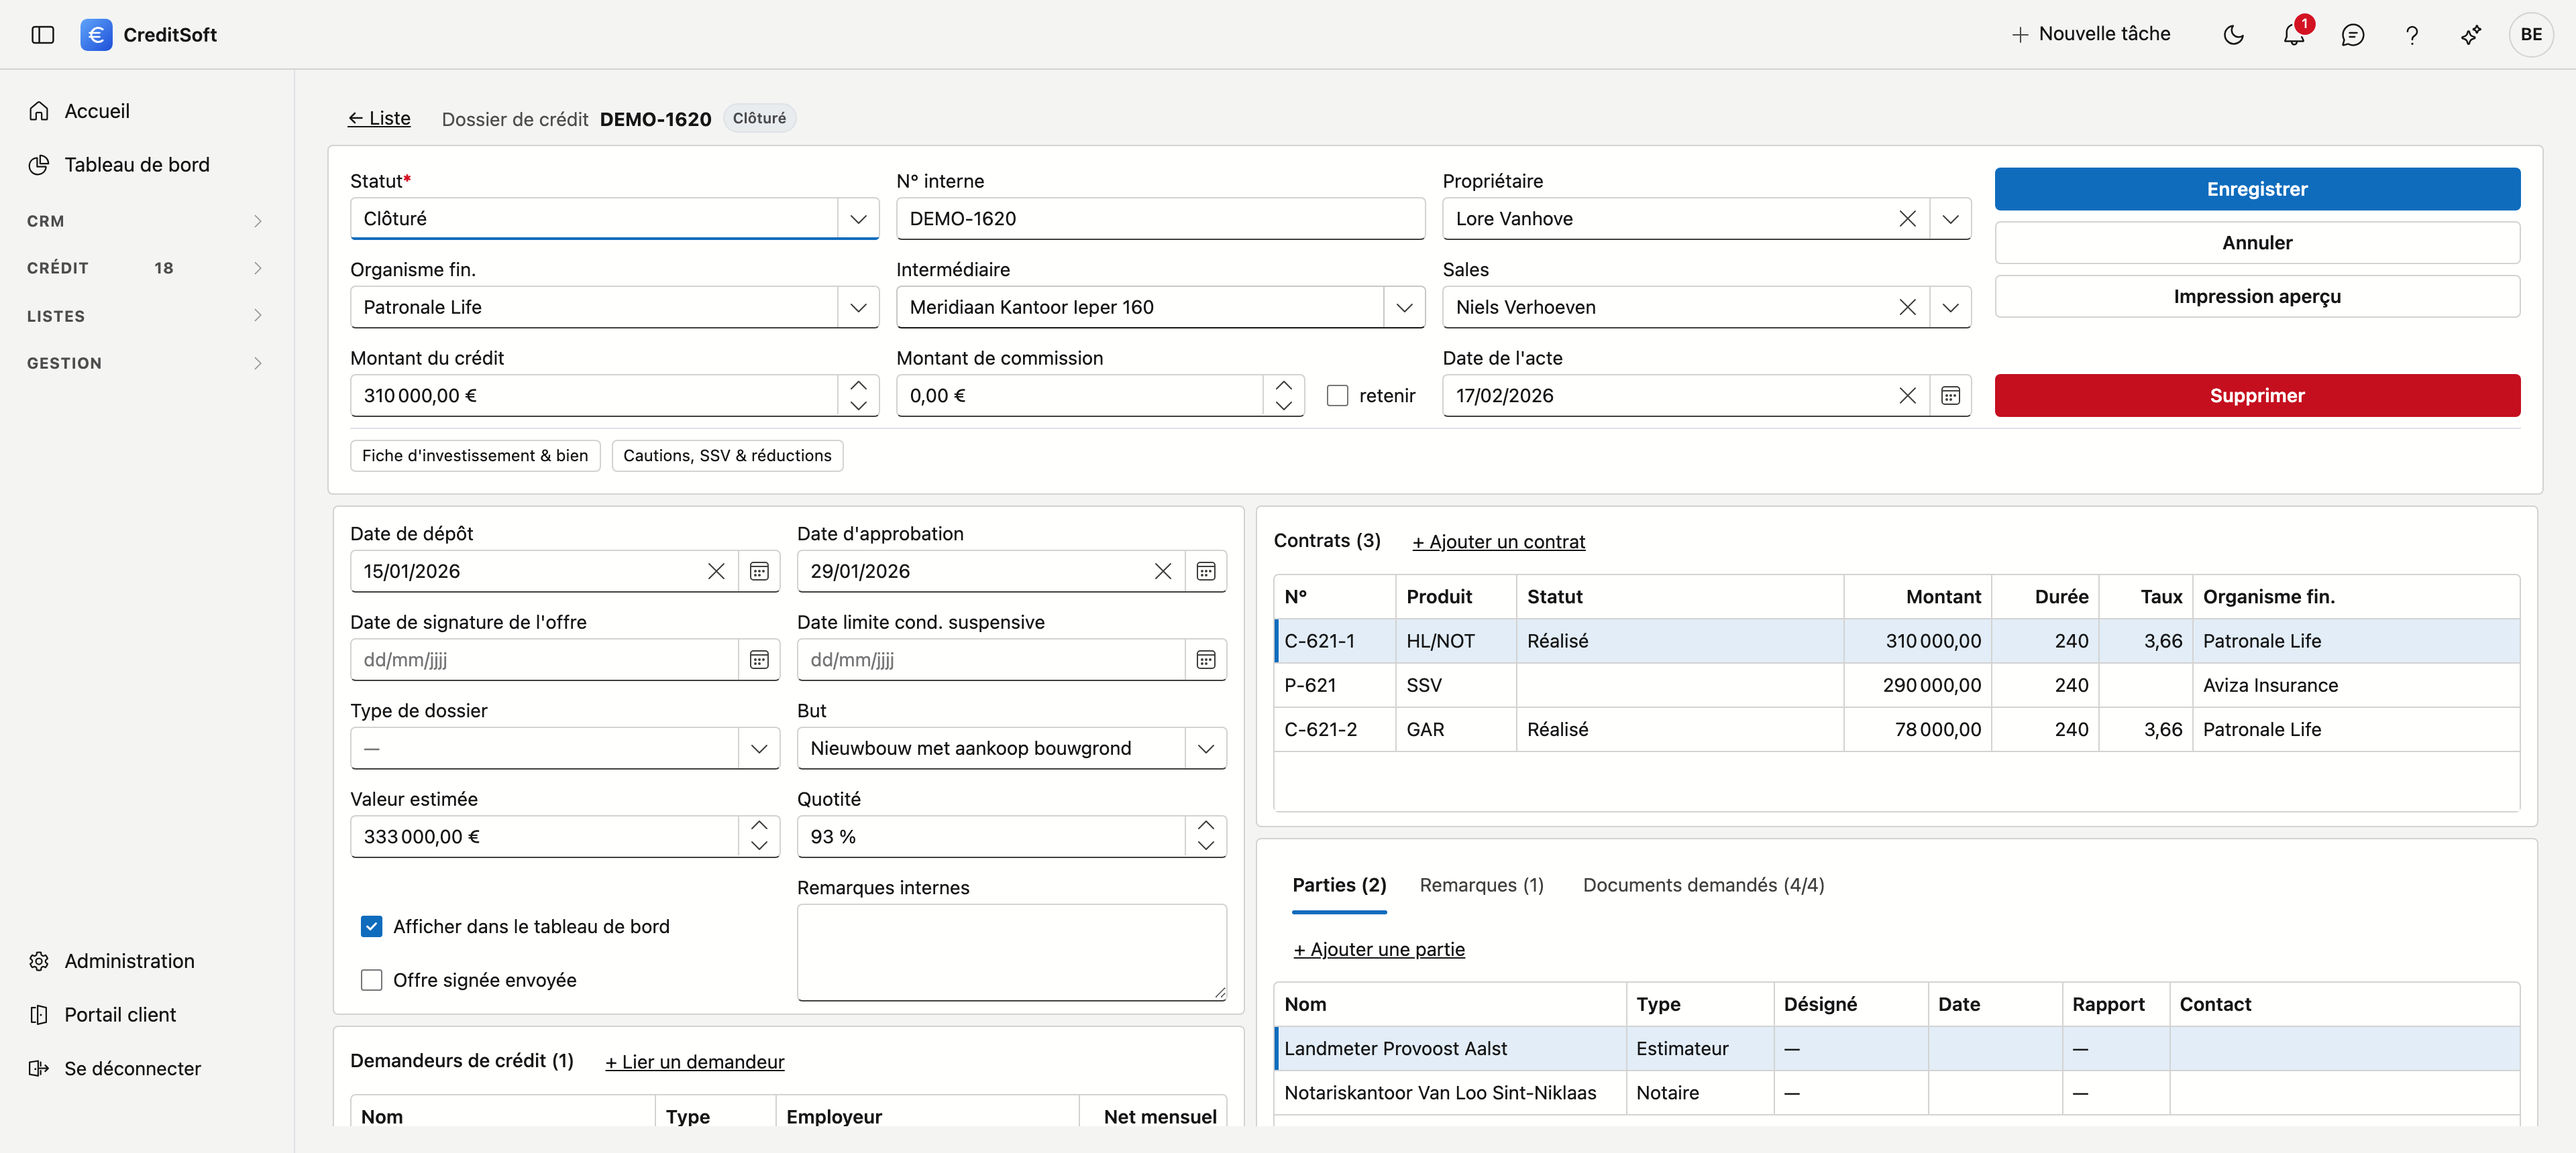
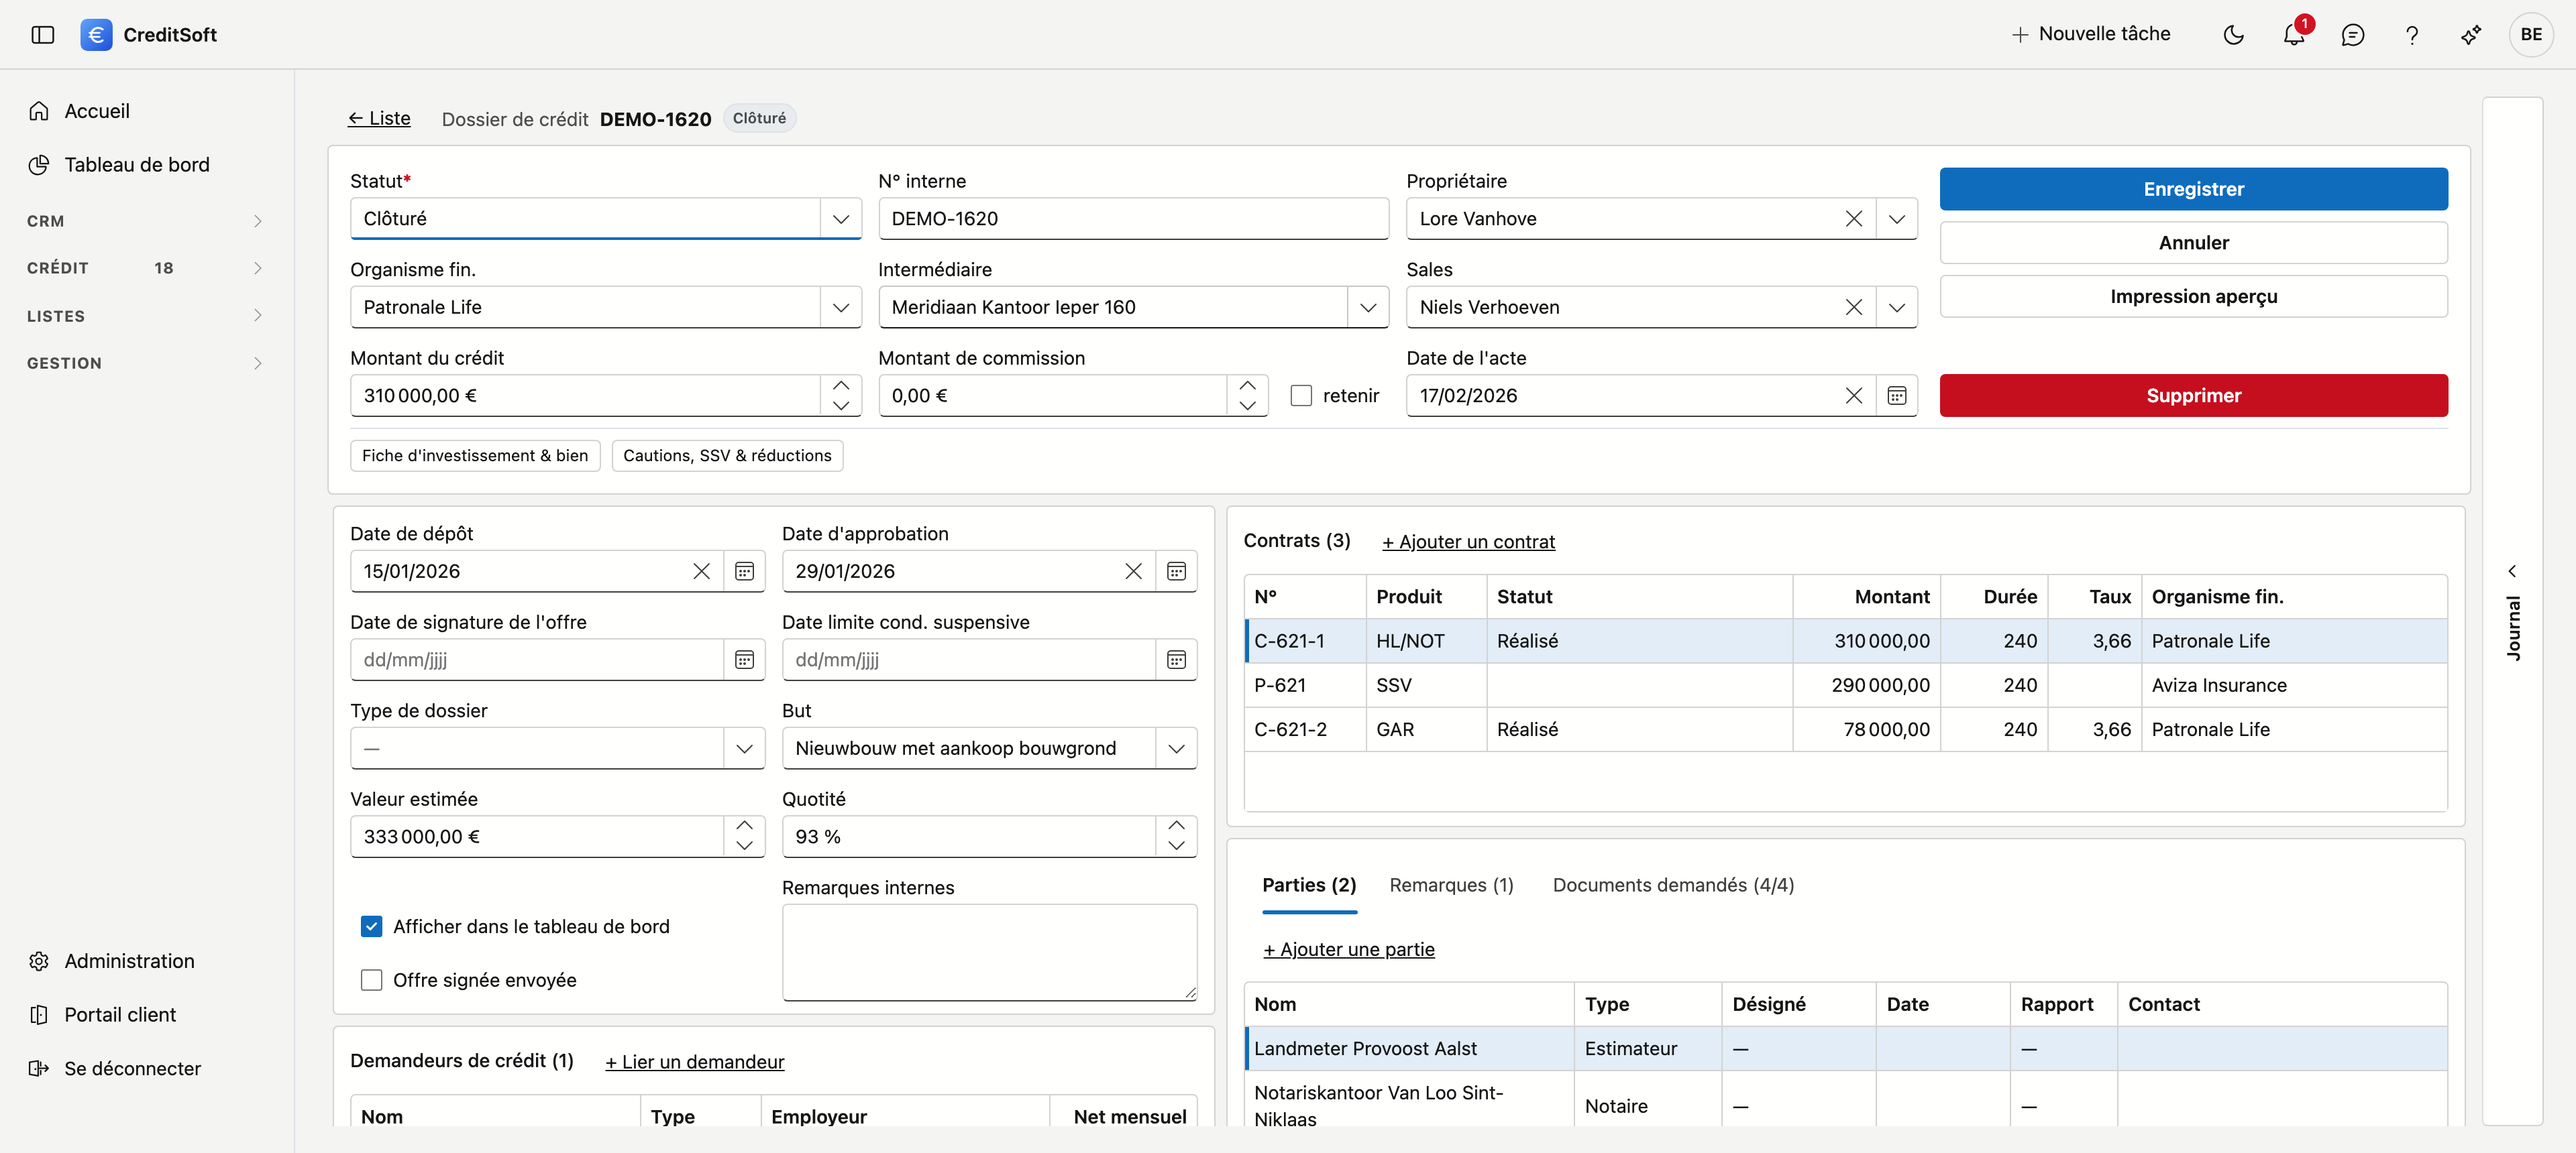
Handleiding: het journaal op de dossierfiche
Nieuwe passage bij het kredietdossier, NL en FR: de knop Journaal met zijn vijf tabbladen, waar je de
verstuurde uitnodiging en de afkeurmail terugvindt, en het pinnetje voor wie een breed scherm heeft.

diff --git a/docs/credit-management/credit-files.fr.md b/docs/credit-management/credit-files.fr.md
@@ -93,6 +93,14 @@ La colonne **Statut** indique en un mot où en est chaque pièce : *Demandé* (r
 - **Approuver** — la pièce est en ordre et compte dans le compteur en haut.
 - **Refuser** — vous indiquez un motif. Il est obligatoire : votre client le lit dans son portail et sait ainsi ce qui ne va pas. Par défaut, un e-mail part également avec un **nouveau lien vers le portail**, afin qu'il puisse fournir à nouveau immédiatement. Ce qu'il avait envoyé est conservé.
 
+### Le journal de ce dossier
+
+Le bouton **Journal** en haut ouvre un panneau à cinq onglets : **Tâches**, **Notes**, **Pièces jointes**, **Courrier** et l'**Historique** — le tout pour ce dossier.
+
+Sous *Courrier*, vous retrouvez l'invitation envoyée à votre client ainsi que l'e-mail concernant les pièces refusées, chacun avec son statut de livraison. Vous pouvez aussi y rédiger un courriel : le destinataire est alors déjà rempli avec le premier demandeur du dossier.
+
+Le panneau flotte au-dessus de la fiche et la masque temporairement. Sur un écran large, cliquez l'**épingle** en haut à droite du panneau : la fiche se décale et les deux s'affichent côte à côte. Ce choix est mémorisé.
+
 ### Inviter votre client
 
 Le bouton **Inviter le client**, au-dessus de la liste, envoie à votre client un e-mail contenant un **lien personnel**. Il y voit les pièces que vous demandez et les téléverse — sans mot de passe, sans compte.

diff --git a/docs/credit-management/credit-files.md b/docs/credit-management/credit-files.md
@@ -93,6 +93,14 @@ De kolom **Status** zegt in één woord waar elk stuk staat: *Gevraagd* (nog nie
 - **Goedkeuren** — het stuk staat in orde en telt mee in de teller bovenaan.
 - **Afkeuren** — u geeft een reden op. Die is verplicht: uw klant leest ze in zijn portaal en weet zo wat er scheelt. Standaard vertrekt er ook een e-mail met een **nieuwe portaallink**, zodat hij meteen opnieuw kan aanleveren. Wat hij eerder stuurde, blijft bewaard.
 
+### Het journaal van dit dossier
+
+De knop **Journaal** bovenaan opent een paneel met vijf tabbladen: **Taken**, **Notities**, **Bijlagen**, **Mailverkeer** en het **Logboek** — alles van dít dossier.
+
+Onder *Mailverkeer* vindt u de uitnodiging terug die u naar uw klant stuurde, en de mail over stukken die u afkeurde, elk met hun afleverstatus. U kan er ook zelf een mail opstellen; de ontvanger staat dan al ingevuld met de eerste aanvrager van het dossier.
+
+Het paneel zweeft over de fiche en dekt ze tijdelijk af. Werkt u op een breed scherm, klik dan het **pinnetje** rechtsboven in het paneel: dan schuift de fiche opzij en staan beide naast elkaar. Die keuze wordt onthouden.
+
 ### Uw klant uitnodigen
 
 De knop **Klant uitnodigen** boven de lijst stuurt uw klant een e-mail met een **persoonlijke link**. Daarmee ziet hij welke stukken u vraagt en laadt hij ze op — zonder wachtwoord, zonder account.
